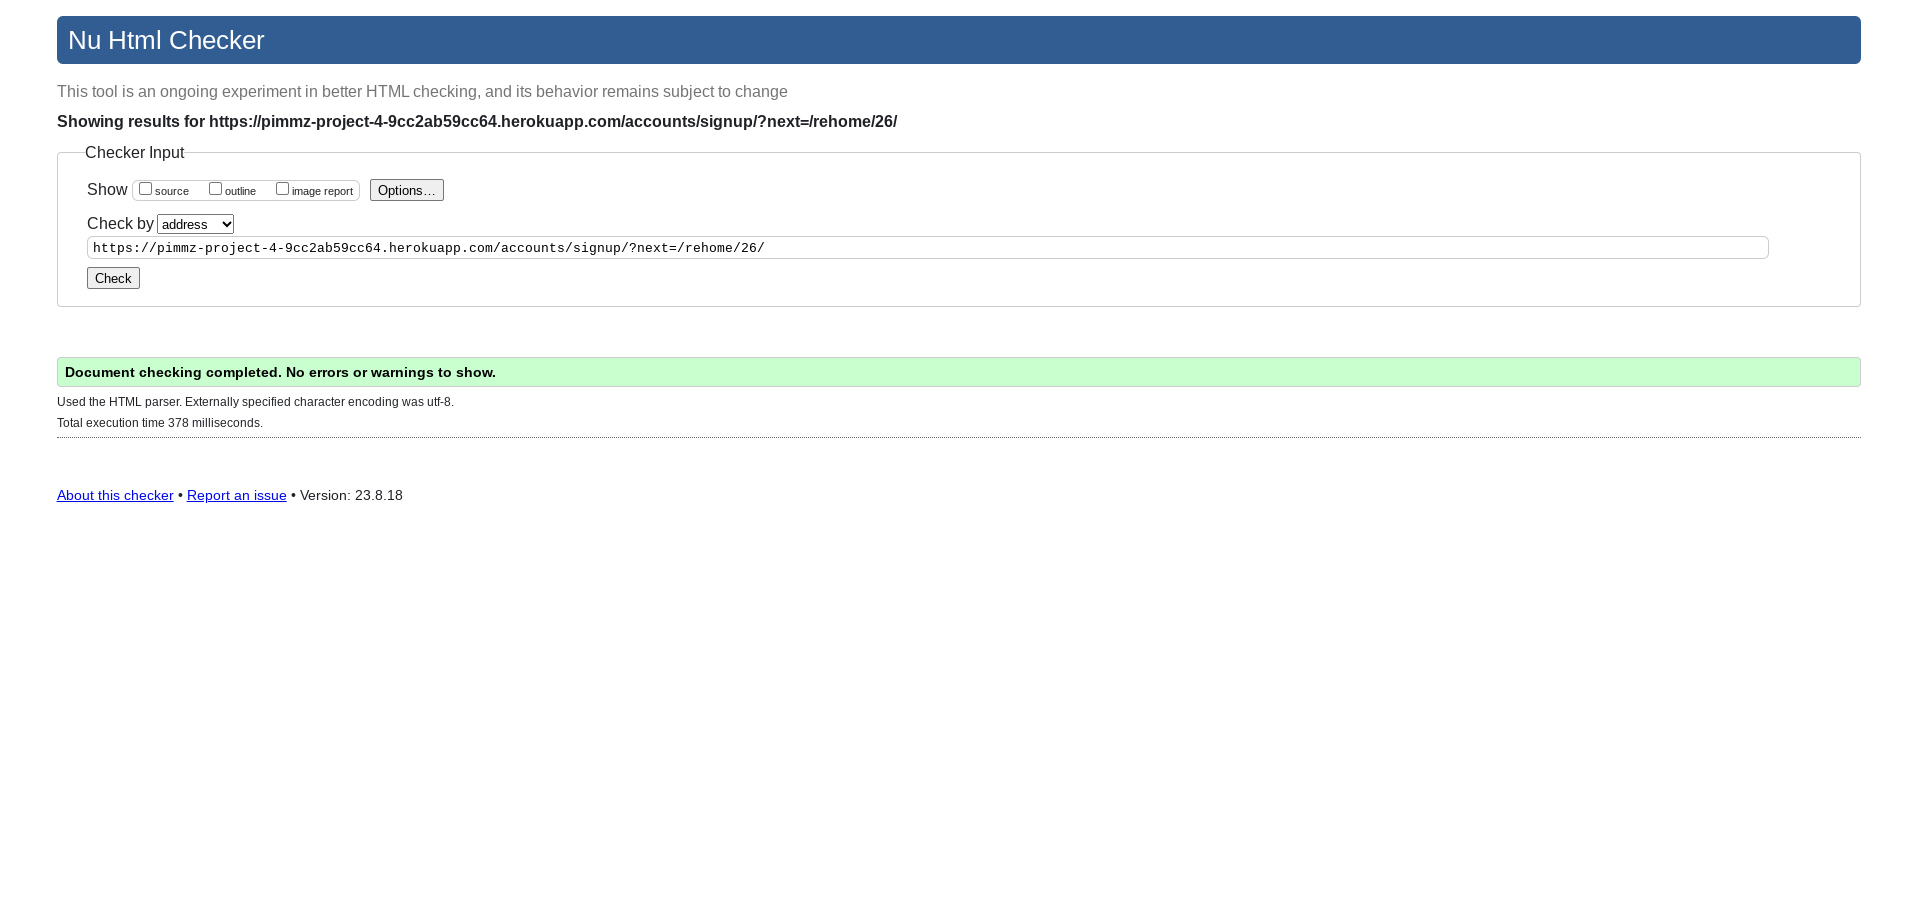
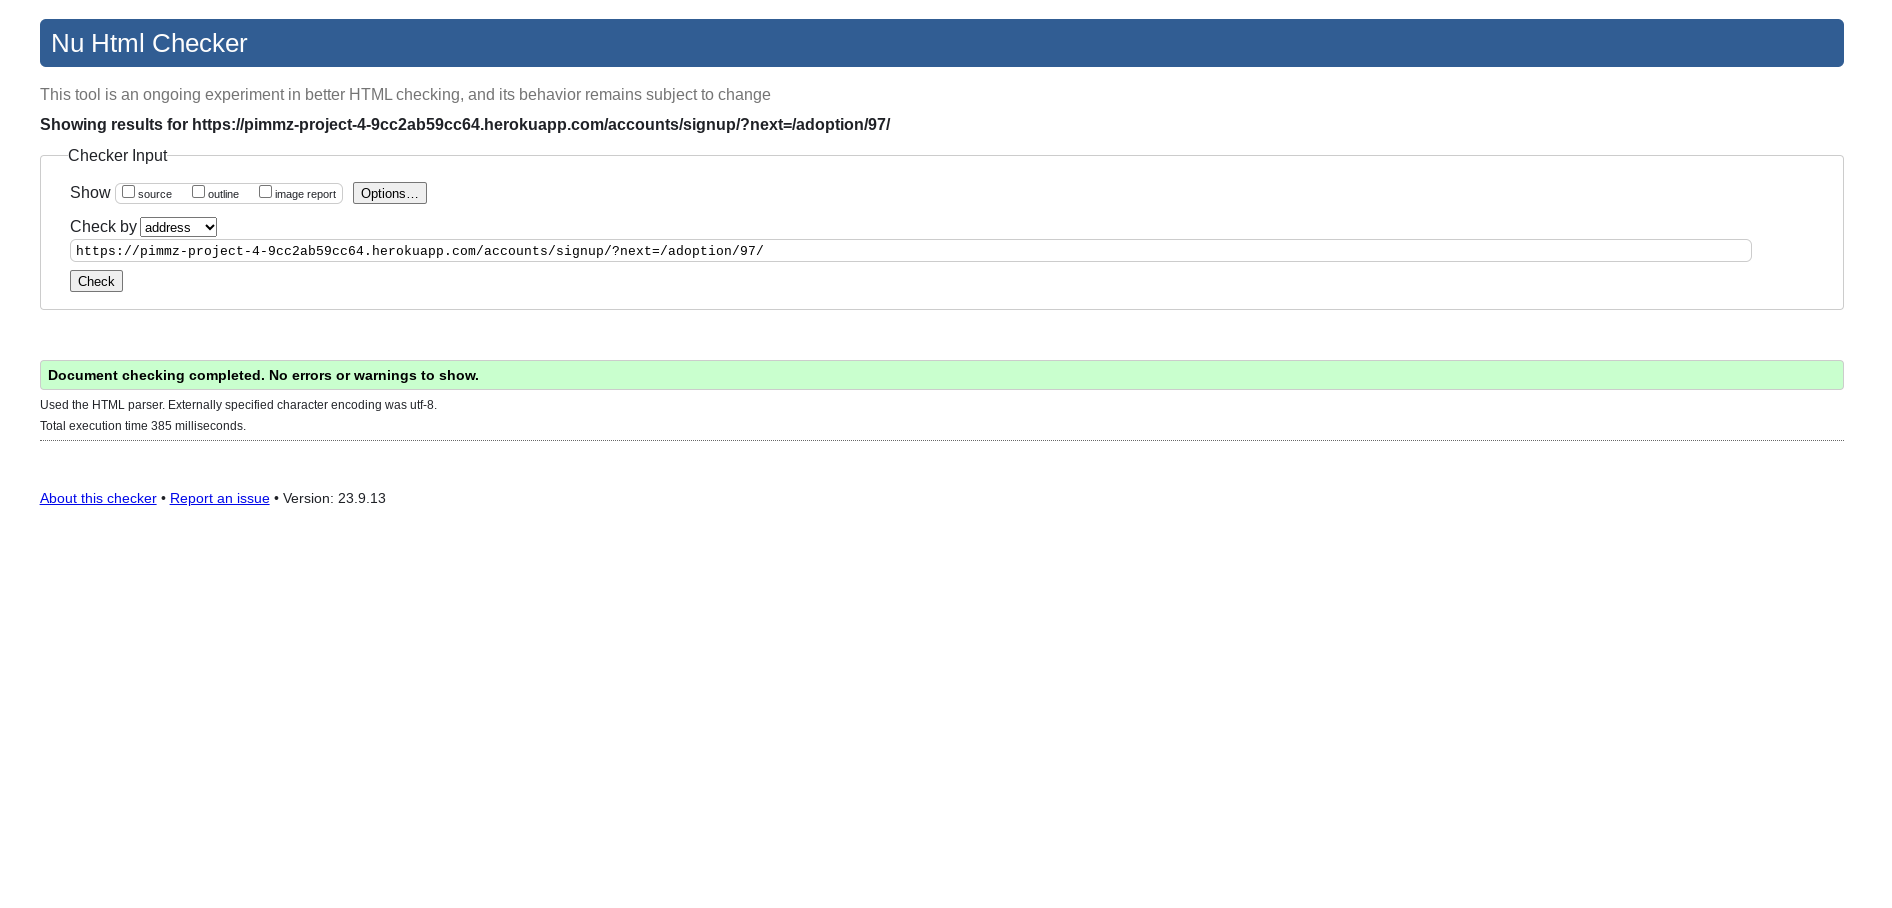
Updated testing md file

Changed region(s): [[0.0, 0.0, 0.9667, 0.3396], [0.0, 0.3705, 0.9667, 0.4939], [0.0312, 0.5248, 0.2183, 0.5557]]

diff --git a/TESTING.md b/TESTING.md
@@ -10,6 +10,7 @@ To ensure that The Fox Terriers Owners Club works effectively over several sites
 
 I have used the recommended [HTML W3C Validator](https://validator.w3.org) to validate all of my HTML files. Which I have put into a tanle below so you can easily check them.
 
+
 | Page | W3C URL | Screenshot | Notes |
 | --- | --- | --- | --- |
 | Home | [W3C](https://validator.w3.org/nu/?doc=https%3A%2F%2Fpimmz-project-4-9cc2ab59cc64.herokuapp.com%2F) | ![screenshot](documentation/testing_images/htmlcheck1.png) | Pass: No Errors  |
@@ -19,40 +20,20 @@ I have used the recommended [HTML W3C Validator](https://validator.w3.org) to va
 | Adoption| [W3C](https://validator.w3.org/nu/?doc=https%3A%2F%2Fpimmz-project-4-9cc2ab59cc64.herokuapp.com%2Faccounts%2Fsignup%2F%3Fnext%3D%2Fadoption%2F) | ![screenshot](documentation/testing_images/htmlcheck5.png) | Pass: No Errors |
 | Rehome | [W3C](https://validator.w3.org/nu/?doc=https%3A%2F%2Fpimmz-project-4-9cc2ab59cc64.herokuapp.com%2Faccounts%2Fsignup%2F%3Fnext%3D%2Frehome%2F) | ![screenshot](documentation/testing_images/htmlcheck6.png) |  Pass: No Errors |
 | Post Room | [W3C](https://validator.w3.org/nu/?doc=https%3A%2F%2Fpimmz-project-4-9cc2ab59cc64.herokuapp.com%2Faccounts%2Fsignup%2F%3Fnext%3D%2Fblog.html) | ![screenshot](documentation/testing_images/htmlcheck7.png) |  Pass: No Errors |
-| Adoption Details | [W3C](https://pimmz-project-4-9cc2ab59cc64.herokuapp.com/adoption/29/) | ![screenshot](documentation/testing_images/htmlcheck8.png) | Pass: No Errors |
-| Rehome Details | [W3C](https://validator.w3.org/nu/?doc=https%3A%2F%2Fpimmz-project-4-9cc2ab59cc64.herokuapp.com%2Faccounts%2Fsignup%2F%3Fnext%3D%2Frehome%2F26%2F) | ![screenshot](documentation/testing_images/htmlcheck9.png) | Pass: No Errors |
+| Adoption details | [W3C](https://validator.w3.org/nu/?doc=https%3A%2F%2Fpimmz-project-4-9cc2ab59cc64.herokuapp.com%2Faccounts%2Fsignup%2F%3Fnext%3D%2Fadoption%2F97%2F) | ![screenshot](documentation/testing_images/htmlcheck9.png) | Pass: No Errors |
+| Update adoption details | [W3C](https://validator.w3.org/nu/?doc=https%3A%2F%2Fpimmz-project-4-9cc2ab59cc64.herokuapp.com%2Faccounts%2Fsignup%2F%3Fnext%3D%2Fupdate_adoption%2F97%2F) | ![screenshot](documentation/testing_images/htmlcheck11.png) | Pass: No Errors |
+| Delete adoption details | [W3C](https://validator.w3.org/nu/?doc=https%3A%2F%2Fpimmz-project-4-9cc2ab59cc64.herokuapp.com%2Faccounts%2Fsignup%2F%3Fnext%3D%2Fdelete_adoption%2F98%2F) | ![screenshot](documentation/testing_images/htmlcheck12.png) | Pass: No Errors |
+| No adoption Details | [W3C](https://pimmz-project-4-9cc2ab59cc64.herokuapp.com/adoption/29/) | ![screenshot](documentation/testing_images/htmlcheck10.png) | Pass: No Errors |
+| Rehome details | [W3C](https://validator.w3.org/nu/?doc=https%3A%2F%2Fpimmz-project-4-9cc2ab59cc64.herokuapp.com%2Faccounts%2Fsignup%2F%3Fnext%3D%2Frehome%2F) | ![screenshot](documentation/testing_images/htmlcheck13.png) | Pass: No Errors |
+| No Rehome details | [W3C](https://validator.w3.org/nu/?doc=https%3A%2F%2Fpimmz-project-4-9cc2ab59cc64.herokuapp.com%2Faccounts%2Fsignup%2F%3Fnext%3D%2Frehome%2F26%2F) | ![screenshot](documentation/testing_images/htmlcheck14.png) | Pass: No Errors |
+| Update rehome details | [W3C](https://validator.w3.org/nu/?doc=https%3A%2F%2Fpimmz-project-4-9cc2ab59cc64.herokuapp.com%2Faccounts%2Fsignup%2F%3Fnext%3D%2Fupdate_rehome%2F48%2F) | ![screenshot](documentation/testing_images/htmlcheck15.png) | Pass: No Errors |
+| Delete rehome details | [W3C](https://validator.w3.org/nu/?doc=https%3A%2F%2Fpimmz-project-4-9cc2ab59cc64.herokuapp.com%2Faccounts%2Fsignup%2F%3Fnext%3D%2Fdelete_rehome%2F48%2F) | ![screenshot](documentation/testing_images/htmlcheck16.png) | Pass: No Errors |
 
-
-⚠⚠⚠⚠⚠ START OF NOTES (to be deleted) ⚠⚠⚠⚠⚠
-
-**IMPORTANT**: Python/Jinja syntax in HTML
-
-Python projects that use Jinja syntax, such as `{% for loops %}`, `{% url 'home' %}`, and `{{ variable|filter }}`
-will not validate properly if you're copying/pasting into the HTML validator.
-
-In order to properly validate these types of files, it's recommended to
-[validate by uri](https://validator.w3.org/#validate_by_uri) from the deployed Heroku pages.
-
-Unfortunately, pages that require a user to be logged-in and authenticated (CRUD functionality),
-will not work using this method, due to the fact that the HTML Validator (W3C) doesn't have
-access to login to your pages.
-In order to properly validate HTML pages with Jinja syntax for authenticated pages, follow these steps:
-
-- Navigate to the deployed pages which require authentication
-- Right-click anywhere on the page, and select **View Page Source** (usually `CTRL+U` or `⌘+U` on Mac).
-- This will display the entire "compiled" code, without any Jinja syntax.
-- Copy everything, and use the [validate by input](https://validator.w3.org/#validate_by_input) method.
-- Repeat this process for every page that requires a user to be logged-in/authenticated.
-
-🛑🛑🛑🛑🛑 END OF NOTES (to be deleted) 🛑🛑🛑🛑🛑
 
 ### CSS
 
 I have used the recommended [CSS Jigsaw Validator](https://jigsaw.w3.org/css-validator) to validate all of my CSS files.
 
-⚠⚠⚠⚠⚠ START OF NOTES (to be deleted) ⚠⚠⚠⚠⚠
-
-- If you are copying/pasting your HTML code, use this link: <https://jigsaw.w3.org/css-validator/#validate_by_input>
 - (*recommended*) If you are using the live deployed site, use this link: <https://jigsaw.w3.org/css-validator/#validate_by_uri>
 
 It's recommended to validate the live site if you only have a single CSS file using the deployed URL.
